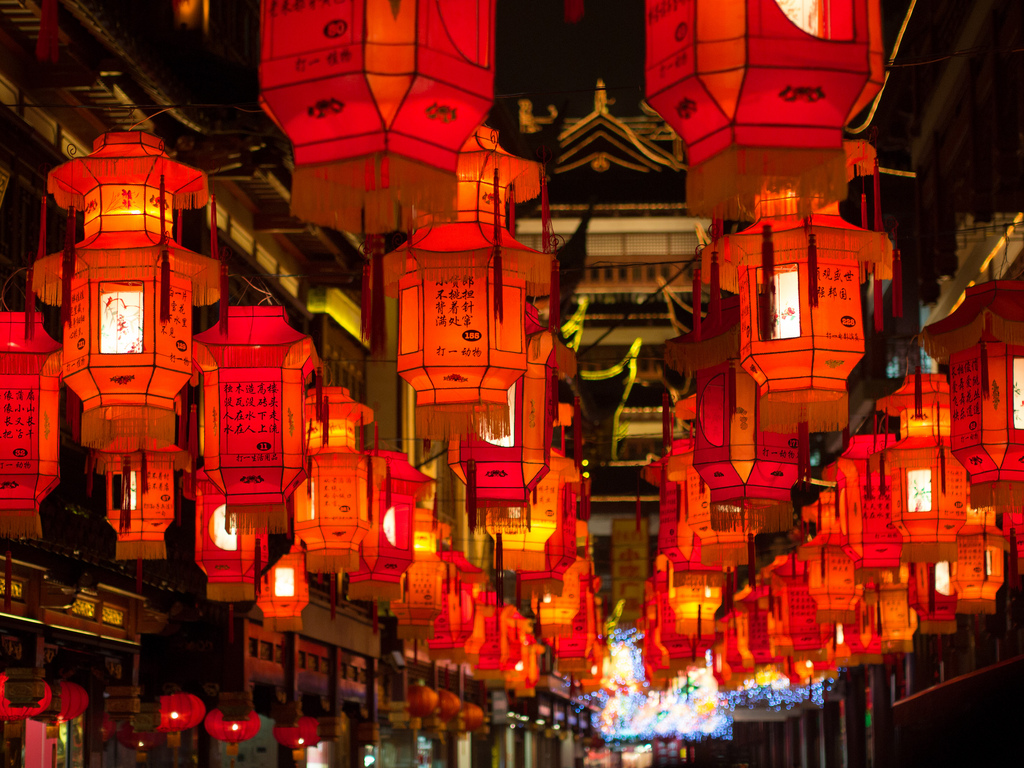
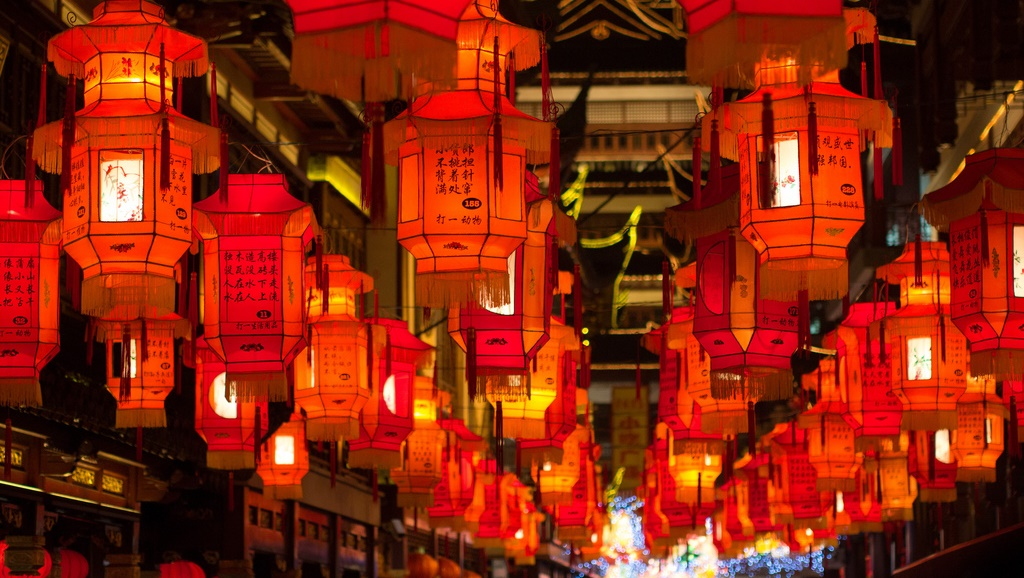
adjust minheight for some pictures

diff --git a/source_sass/_base.scss b/source_sass/_base.scss
@@ -65,12 +65,14 @@
   #part0 {
     width: 100%;
     max-height: 1000px;
+    min-height: 600px;
     margin-left: auto;
     margin-right: auto;
     max-width: initial;
     background-image: url("../data/pics/introduction.jpg");
     background-repeat: no-repeat;
-    background-size: 100%;
+    background-position: center;
+    background-size: auto 100%;
     color: #fff;
     @include breakpoint(large) {
       margin-top: -4.5em;
@@ -87,9 +89,6 @@
       font-weight: 500;
       background: none;
       border: 2px solid rgba(255,255,255,0.6);
-	  @include breakpoint(small only) {
-	    font-size: 0.6em;
-	  }
     }
     .button:hover {
         background: $red-1;
@@ -129,6 +128,7 @@
   }
 
   #part2 {
+    min-height: 500px;
     @include breakpoint(medium) {
 	  //border-top:4px dashed red;
 	  //border-bottom: 4px dashed red;
@@ -141,9 +141,6 @@
 	  width: 30%;
 	  margin-left: 63%;
 	  margin-top: 5%;
-	  @include breakpoint(medium down) {
-	    font-size: 0.6em;
-	  }
 	}
   }
 
@@ -188,33 +185,32 @@
   }
   .activity {
     height: 650px;
+    min-height: 500px;
     //background: red;
+    background-position: center;
+    background-repeat: no-repeat;
+    background-size: auto 100%;
   }
 
   #activity-1 {
     background-image: url("../data/pics/activity_1.jpg");
-    background-repeat: no-repeat;
-    background-size: 100% 100%;
   }
 
   #activity-2 {
     background-image: url("../data/pics/activity_2.jpg");
-    background-repeat: no-repeat;
-    background-size: 100%;
     background-color: #fff;
   }
 
   #activity-3 {
     background-image: url("../data/pics/activity_3.jpg");
-    background-repeat: no-repeat;
-    background-size: 100% 100%;
   }
 
   #activity-4 {
     background-image: url("../data/pics/activity_4.jpg");
-    background-repeat: no-repeat;
-    background-size: auto 100%;
     background-color: pink;
+    @include breakpoint(medium) {
+      background-position: left;
+    }
   }
 
   #part3 {

diff --git a/public/index.html b/public/index.html
@@ -94,7 +94,7 @@
 
 <!-- introduction -->
   <section id="part0" class="row" data-magellan-target="part1">
-    <div class="row text-center" style="margin-top:2em;">
+    <div class="row text-center">
       <div class="columns small-12" style="margin-bottom: 4%;">
         <h1> The Upcoming Lantern Festival </h1>
         <h3> Join Us on Feb. 22, 2016</h3>
@@ -137,7 +137,7 @@
   <section id="part2" class="row" data-magellan-target="part2">
     <div class="carousel" class="centered">
       <div class="activity" id="activity-1">
-        <h3 style="margin-top:10%; margin-left:10%;"> Eating lutinous rice balls</h3>
+        <h3 style="margin-top:15%; margin-left:10%;"> Eating lutinous rice balls</h3>
       </div>
       <div class="activity" id="activity-2">
         <h3 id="vertical"> Solving riddles on the paper lanterns </h3>
@@ -149,7 +149,7 @@
 
       <div class="activity" id="activity-4">
         <h3 style="margin-top:10%; margin-left:66%;"> Finding Love </h3>
-        <p class="hide-for-small-only text-justify"> In the early days, young people were chaperoned in the streets in hopes of finding love. Matchmakers acted busily in hopes of pairing couples. The brightest lanterns were symbolic of good luck and hope. Thus it is the Chinese equivalent of Valentine's Day. </p>
+        <p class="show-for-large text-justify"> In the early days, young people were chaperoned in the streets in hopes of finding love. Matchmakers acted busily in hopes of pairing couples. The brightest lanterns were symbolic of good luck and hope. Thus it is the Chinese equivalent of Valentine's Day. </p>
       </div>
     </div>
   </section>
